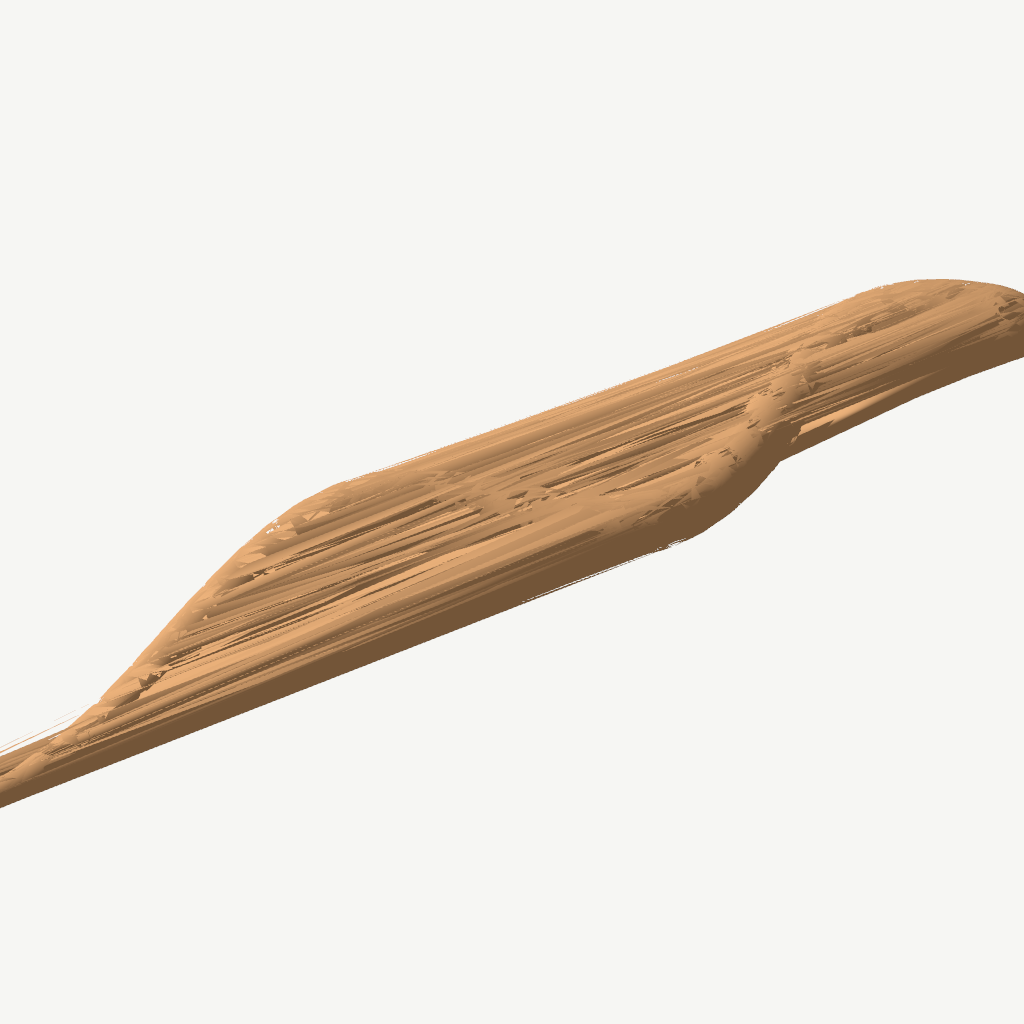
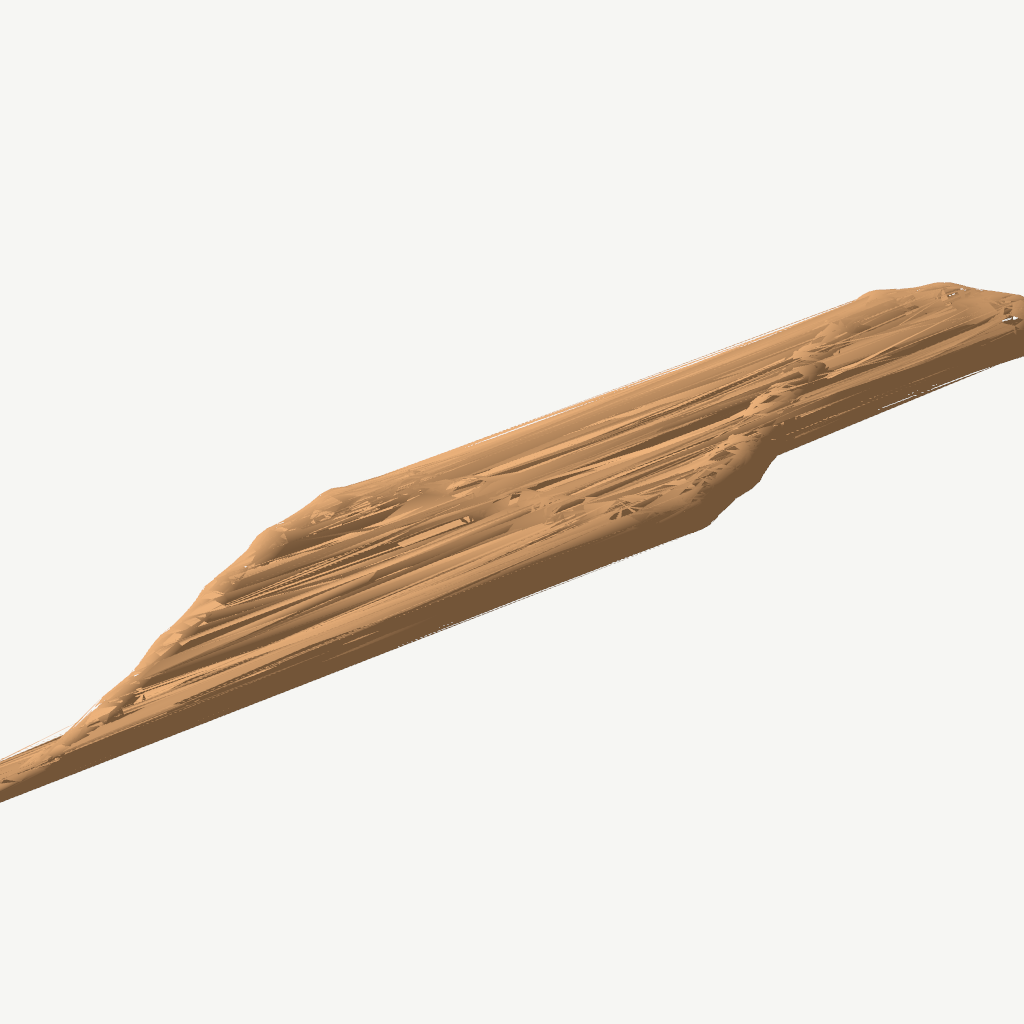
Add TaperedCapsule SDF primitive, fix SdfPath to use it
New primitive: SdfPrimitive::TaperedCapsule { a, b, radius_a, radius_b }
Distance from point to line segment a→b, minus linearly interpolated
radius. Gives smooth tubular shapes with natural tapering — no sphere
streaking.

WGSL codegen: sdf_tapered_capsule(p, a, b, ra, rb) using
  h = clamp(dot(pa, ba) / dot(ba, ba), 0, 1)
  return length(pa - ba*h) - mix(ra, rb, h)

SdfPathActor now places TaperedCapsule segments between consecutive
spine curve sample points instead of spheres. Each segment fills the
full gap with correct radius interpolation. Linear smooth-union chain
for natural path blending.

Snake shape test produces recognizable S-curve snake body with
head-to-tail taper from a single SdfPath config.

Changed region(s): [[0.0, 0.25, 1.0, 0.7812]]

diff --git a/crates/reflow_components/src/gpu/sdf/path.rs b/crates/reflow_components/src/gpu/sdf/path.rs
@@ -80,44 +80,44 @@ pub async fn sdf_path_actor(ctx: ActorContext) -> Result<HashMap<String, Message
     // Interpolate radius profile to match point count
     let radii = interpolate_profile(&profile, points.len());
 
-    // Build SDF: sphere at each point, combined via balanced binary tree
-    // of smooth unions. This keeps tree depth O(log N) instead of O(N),
-    // preventing WGSL precision issues with deeply nested evaluations.
+    // Build SDF: TaperedCapsule between each consecutive pair of points.
+    // Each capsule stretches from point[i] to point[i+1] with linearly
+    // interpolated radii — no gaps, smooth tapering.
     let mut nodes: Vec<SdfNode> = Vec::new();
 
-    for (i, (px, py)) in points.iter().enumerate() {
-        let r = radii[i];
-        if r < 0.001 {
+    for i in 0..points.len() - 1 {
+        let ra = radii[i];
+        let rb = radii[i + 1];
+        if ra < 0.001 && rb < 0.001 {
             continue;
         }
 
-        let offset = match plane {
-            "xy" => [*px, *py, 0.0],
-            "yz" => [0.0, *px, *py],
-            _ => [*px, 0.0, *py], // "xz" default — horizontal snake
+        let (ax, ay) = points[i];
+        let (bx, by) = points[i + 1];
+
+        let a = match plane {
+            "xy" => [ax, ay, 0.0],
+            "yz" => [0.0, ax, ay],
+            _ => [ax, 0.0, ay],
+        };
+        let b = match plane {
+            "xy" => [bx, by, 0.0],
+            "yz" => [0.0, bx, by],
+            _ => [bx, 0.0, by],
         };
 
-        nodes.push(SdfNode::sphere(r).translate(offset));
+        nodes.push(SdfNode::tapered_capsule(a, b, ra, rb));
     }
 
-    // Balanced reduce: pair up adjacent nodes, smooth-union them, repeat
-    while nodes.len() > 1 {
-        let mut next = Vec::with_capacity((nodes.len() + 1) / 2);
-        let mut i = 0;
-        while i < nodes.len() {
-            if i + 1 < nodes.len() {
-                next.push(SdfNode::smooth_union(
-                    nodes[i].clone(),
-                    nodes[i + 1].clone(),
-                    smoothness,
-                ));
-                i += 2;
-            } else {
-                next.push(nodes[i].clone());
-                i += 1;
-            }
+    // Linear chain: each segment smooth-unions with the accumulated result.
+    // This ensures adjacent segments blend naturally along the path.
+    // For N < 30 segments the WGSL tree depth is acceptable.
+    if nodes.len() > 1 {
+        let mut acc = nodes[0].clone();
+        for i in 1..nodes.len() {
+            acc = SdfNode::smooth_union(acc, nodes[i].clone(), smoothness);
         }
-        nodes = next;
+        nodes = vec![acc];
     }
 
     let node = nodes.into_iter().next()

diff --git a/crates/reflow_sdf/src/codegen.rs b/crates/reflow_sdf/src/codegen.rs
@@ -122,6 +122,9 @@ impl CodegenContext {
                 format!("sdf_torus({}, {:.6}, {:.6})", pos, major_radius, minor_radius),
             SdfPrimitive::Cone { angle, height } =>
                 format!("sdf_cone({}, {:.6}, {:.6})", pos, angle, height),
+            SdfPrimitive::TaperedCapsule { a, b, radius_a, radius_b } =>
+                format!("sdf_tapered_capsule({}, vec3f({:.6}, {:.6}, {:.6}), vec3f({:.6}, {:.6}, {:.6}), {:.6}, {:.6})",
+                    pos, a[0], a[1], a[2], b[0], b[1], b[2], radius_a, radius_b),
             SdfPrimitive::Plane { normal, offset } =>
                 format!("dot({}, vec3f({:.6}, {:.6}, {:.6})) + {:.6}", pos, normal[0], normal[1], normal[2], offset),
             SdfPrimitive::InfRepeat { spacing } =>
@@ -360,6 +363,13 @@ fn sdf_cone(p: vec3f, angle: f32, h: f32) -> f32 {
   let q = vec2f(length(p.xz), p.y);
   let d = length(q - c * max(dot(q, c), 0.0));
   return d * select(1.0, -1.0, q.x * c.y - q.y * c.x < 0.0);
+}
+
+fn sdf_tapered_capsule(p: vec3f, a: vec3f, b: vec3f, ra: f32, rb: f32) -> f32 {
+  let ba = b - a;
+  let pa = p - a;
+  let h = clamp(dot(pa, ba) / dot(ba, ba), 0.0, 1.0);
+  return length(pa - ba * h) - mix(ra, rb, h);
 }
 
 fn rot_xyz(p: vec3f, a: vec3f) -> vec3f {

diff --git a/crates/reflow_sdf/src/ir.rs b/crates/reflow_sdf/src/ir.rs
@@ -21,6 +21,9 @@ pub enum SdfPrimitive {
     Torus { major_radius: f32, minor_radius: f32 },
     Cone { angle: f32, height: f32 },
     Plane { normal: [f32; 3], offset: f32 },
+    /// Line segment with linearly varying radius (conical frustum with rounded ends).
+    /// `a` and `b` are endpoints, `radius_a` and `radius_b` are the radii at each end.
+    TaperedCapsule { a: [f32; 3], b: [f32; 3], radius_a: f32, radius_b: f32 },
     /// Infinite repetition — creates `child` at every grid cell.
     InfRepeat { spacing: [f32; 3] },
 }
@@ -289,6 +292,13 @@ impl SdfNode {
 
     pub fn cone(angle: f32, height: f32) -> Self {
         SdfNode::Primitive { shape: SdfPrimitive::Cone { angle, height }, material: None }
+    }
+
+    pub fn tapered_capsule(a: [f32; 3], b: [f32; 3], radius_a: f32, radius_b: f32) -> Self {
+        SdfNode::Primitive {
+            shape: SdfPrimitive::TaperedCapsule { a, b, radius_a, radius_b },
+            material: None,
+        }
     }
 
     // ── Operation constructors ───────────────────────────────────

diff --git a/examples/skeleton_animation/shape_test.rs b/examples/skeleton_animation/shape_test.rs
@@ -44,9 +44,9 @@ async fn main() -> anyhow::Result<()> {
     // ══════════════════════════════════════════════════════════════
     net.add_node("snake", "tpl_sdf_path", config(json!({
         "path": "M -3,0 C -2,-1.2 -1,1.2 0,0 C 1,-1.2 2,1.0 3,0.3",
-        "profile": [0.18, 0.16, 0.14, 0.13, 0.13, 0.12, 0.11, 0.09, 0.06, 0.03],
-        "segments": 80,
-        "smoothness": 0.10,
+        "profile": [0.18, 0.16, 0.14, 0.13, 0.13, 0.12, 0.11, 0.09, 0.06, 0.02],
+        "segments": 20,
+        "smoothness": 0.06,
         "plane": "xz",
     })))?;
 
